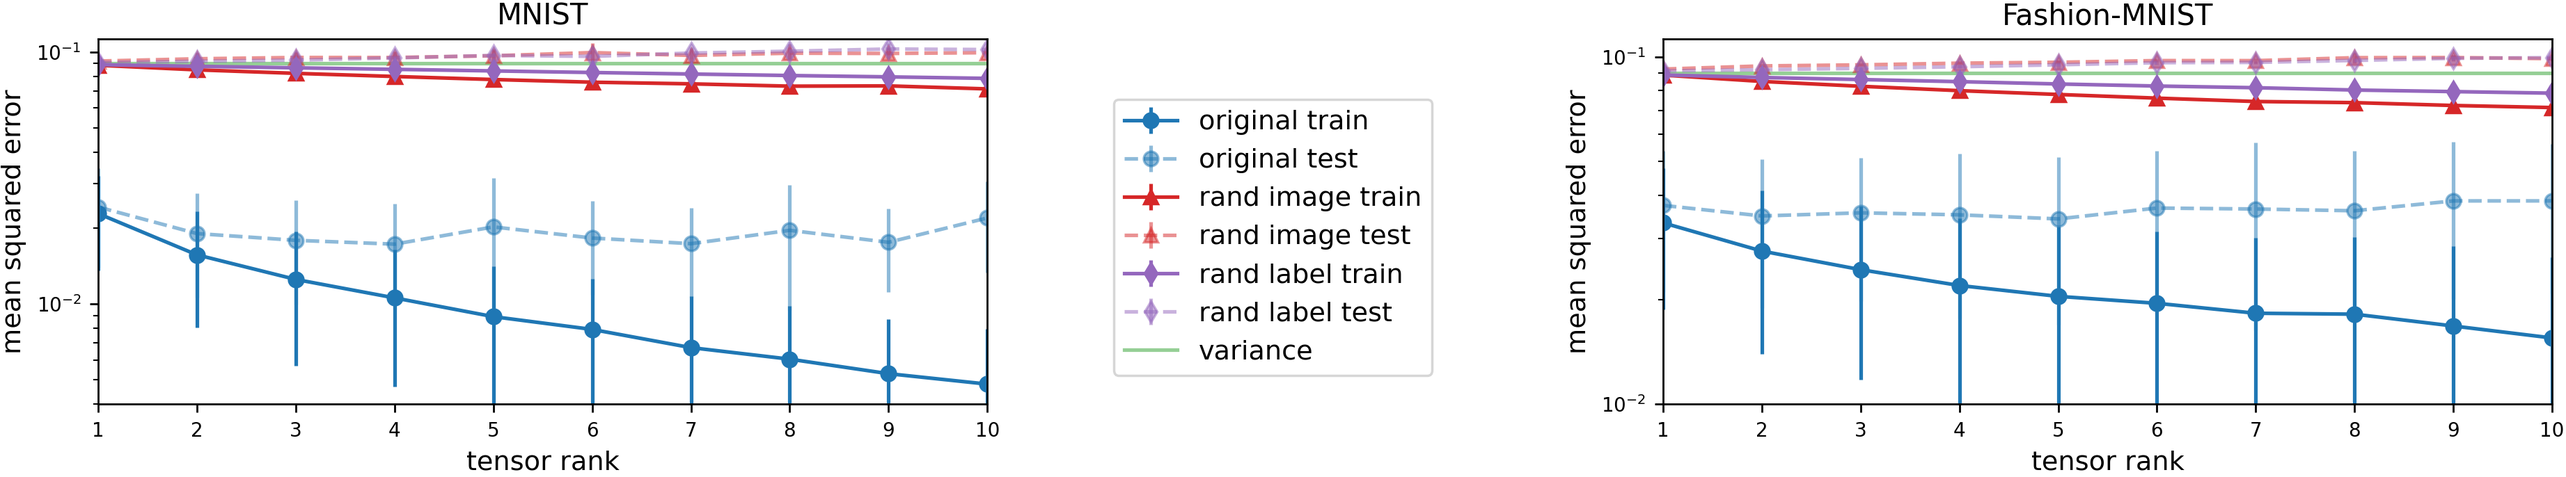
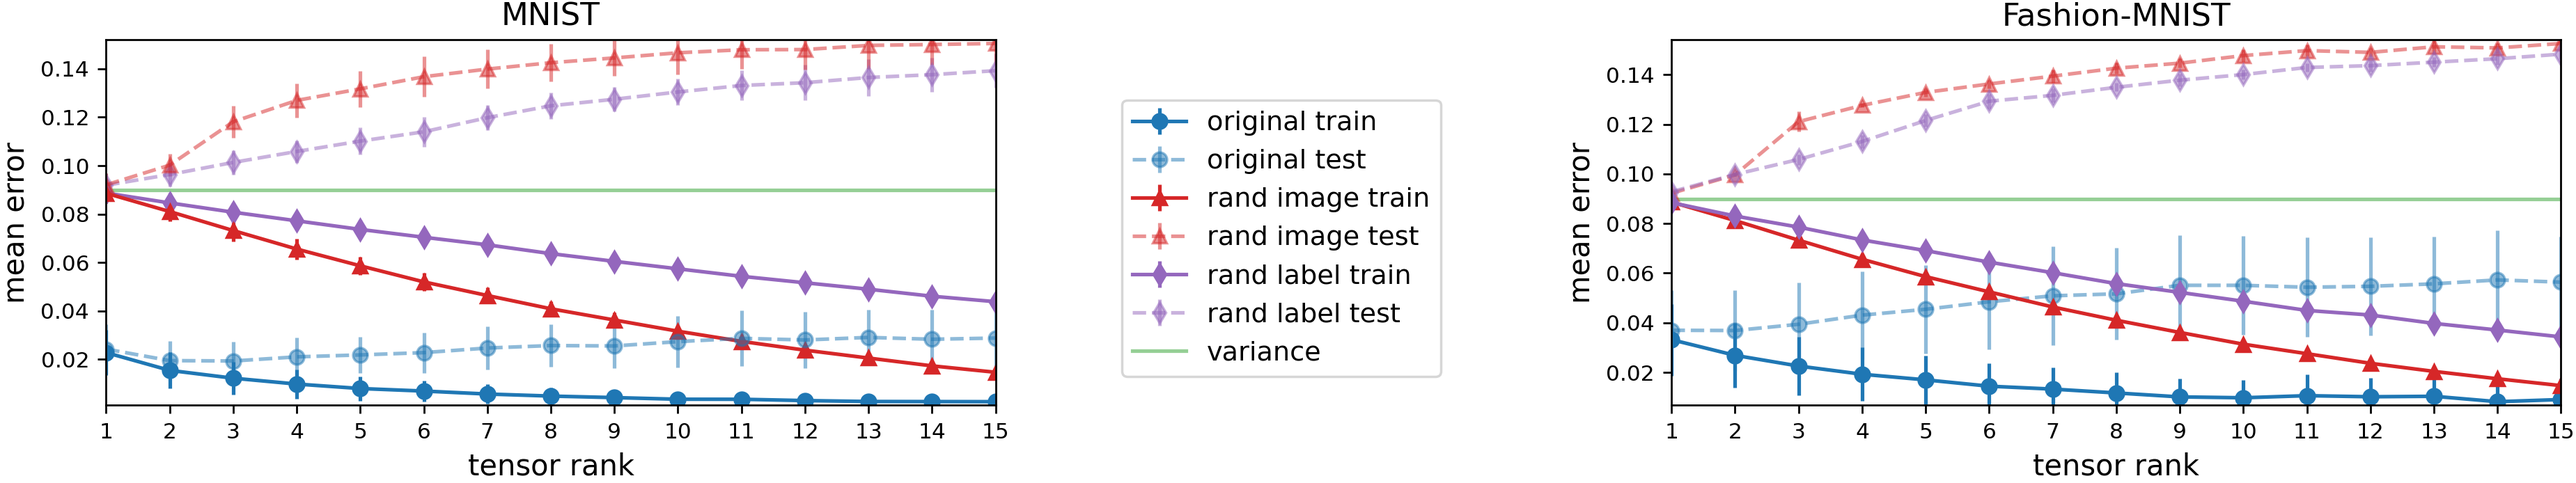
Minor updates (v2 of paper)

diff --git a/large_scale_experiments_plotter.py b/large_scale_experiments_plotter.py
@@ -19,9 +19,9 @@ NATURAL_PLOT_MARKER = 'o'
 
 VARIANCE_PLOT_COLOR = 'tab:green'
 
-TITLE_SIZE = 12
+TITLE_SIZE = 13
 
-LABELS_SIZE = 11
+LABELS_SIZE = 12
 
 TICKS_SIZE = 9
 
@@ -65,7 +65,7 @@ def fetch_data(root_directory_path):
         checkpoint = torch.load(checkpoint_path)
         rank = checkpoint['model']['factors'].shape[2]
         train_loss = checkpoint['train_evaluator']['mse_loss']['current_value']
-        test_loss = checkpoint['val_evaluator']['val_mse_loss']['current_value']
+        test_loss = checkpoint['val_evaluator']['val_loss']['current_value']
 
         dataset_type = 'other_type'
         for type_option in ['natural', 'rnd_lbl', 'rnd_data']:
@@ -73,7 +73,6 @@ def fetch_data(root_directory_path):
                 dataset_type = type_option
                 break
 
-        dataset_name = 'other_dataset_name'
         for dataset_name_option in ['fmnist', 'mnist']:
             if dataset_name_option in checkpoint_path:
                 dataset_name = dataset_name_option
@@ -86,6 +85,7 @@ def fetch_data(root_directory_path):
         for dataset_type, by_dataset_type_data_dict in by_dataset_name_data_dict.items():
             for rank, list_of_results in by_dataset_type_data_dict.items():
                 rescale = np.array(list_of_results) / SCALE_FACTOR
+                rescale = np.sort(rescale)
                 all_data[dataset_name][dataset_type][rank] = (rescale.mean(), rescale.std())
 
     return all_data
@@ -93,6 +93,7 @@ def fetch_data(root_directory_path):
 
 def populate_axes(ax, dataset_name, data):
     styles, plot_labels, plot_titles = get_plot_style_dict()
+    x_max, x_min, y_max, y_min = init_limit_values(data)
 
     for i, (raw_label, series) in enumerate(data.items()):
         dataset_type = raw_label[0]
@@ -101,18 +102,45 @@ def populate_axes(ax, dataset_name, data):
         x, y_values = zip(*(sorted(series.items())))
         y, yerr = zip(*y_values)
 
+        x_max, x_min, y_max, y_min = update_limits_values(x, x_max, x_min, y, y_max, y_min)
+
         processed_label = plot_labels[dataset_type] + ' ' + train_or_test
         ax.errorbar(x, y, yerr=yerr, label=processed_label, **styles[dataset_type], **styles[train_or_test])
 
-    ax.plot([1, 10], [0.09, 0.09], label='variance', color=VARIANCE_PLOT_COLOR, alpha=0.5)
+    ax.plot([x_min, x_max], [0.09, 0.09], label='variance', color=VARIANCE_PLOT_COLOR, alpha=0.5)
+    y_max = max(y_max, 0.09)
     ax.set_xticks(x)
     ax.tick_params(axis='x', labelsize=TICKS_SIZE)
     ax.tick_params(axis='y', labelsize=TICKS_SIZE)
     ax.set_title(plot_titles[dataset_name], fontsize=TITLE_SIZE)
-    ax.set_xlim((1, 10))
+    set_plot_limits(ax, x_max, x_min, y_max, y_min)
     ax.set_xlabel('tensor rank', fontsize=LABELS_SIZE)
-    ax.set_ylabel('mean squared error', fontsize=LABELS_SIZE)
-    ax.set_yscale('log')
+    ax.set_ylabel('mean error', fontsize=LABELS_SIZE)
+
+
+def set_plot_limits(ax, x_max, x_min, y_max, y_min):
+    ax.set_xlim((x_min, x_max))
+    y_gap = y_max - y_min
+    y_pad = y_gap * 0.01
+    ax.set_ylim((y_min - y_pad, y_max + y_pad))
+
+
+def init_limit_values(data):
+    x_min, x_max = list(list(data.values())[0].items())[0][0], list(list(data.values())[0].items())[0][0]
+    y_min, y_max = list(list(data.values())[0].items())[0][1][0], list(list(data.values())[0].items())[0][1][0]
+    return x_max, x_min, y_max, y_min
+
+
+def update_limits_values(x, x_max, x_min, y, y_max, y_min):
+    if max(x) > x_max:
+        x_max = max(x)
+    if min(x) < x_min:
+        x_min = min(x)
+    if max(y) > y_max:
+        y_max = max(y)
+    if min(y) < y_min:
+        y_min = min(y)
+    return x_max, x_min, y_max, y_min
 
 
 def create_plot(args):
@@ -141,6 +169,7 @@ def create_plot(args):
     if args.save_plot_to != '':
         if not os.path.exists(os.path.dirname(args.save_plot_to)):
             os.mkdir(os.path.dirname(args.save_plot_to))
+            
         plt.savefig(args.save_plot_to + now_utc_str, dpi=250, bbox_inches='tight', pad_inches=0.01)
 
     plt.show()
@@ -151,10 +180,7 @@ def main():
     p.add_argument("--experiments_dir", type=str, required=True, help="Paths to a directory with experiments.")
     p.add_argument("--save_plot_to", type=str, default="",
                    help="Save plot to the given file path (doesn't save if none given).")
-    p.add_argument("--plot_title", type=str, default="", help="Title for the plot.")
-    p.add_argument("--plot_scale", type=float, default=1.5, help="Determine the scale of the 4x3 plot.")
-    p.add_argument("--trivial_loss_value", type=float, default=-1,
-                   help="Insert trivial loss value to plot horizontal line in its place. (when left blank - no line will be plotted)")
+
     args = p.parse_args()
 
     create_plot(args)

diff --git a/tensor_factorization/experiments/large_scale_tensor_completion_experiment.py b/tensor_factorization/experiments/large_scale_tensor_completion_experiment.py
@@ -23,7 +23,6 @@ from common.train.trainers import SupervisedTrainer
 from tensor_factorization.datasets.large_scale_tensor_completion_datamodule import LargeScaleTensorCompletionDataModule
 from tensor_factorization.evaluation.large_scale_cp_factorization_evaluator import LargeScaleCPFactorizationEvaluator
 from tensor_factorization.models.tensor_factorizations import LargeScaleTensorCPFactorization
-from tensor_factorization.trainers.weight_clamp_callback import WeightClampCallback
 
 
 class LargeScaleTensorCompletionExperiment(ExperimentBase):
@@ -41,11 +40,12 @@ class LargeScaleTensorCompletionExperiment(ExperimentBase):
         parser.add_argument("--optimizer", type=str, default="grouprmsprop", help="Optimizer to use. Supports: 'grouprmsprop', 'adam', 'sgd'")
         parser.add_argument("--momentum", type=float, default=0, help="Momentum for SGD")
         parser.add_argument("--stop_on_zero_loss_tol", type=float, default=1e-8, help="Stops when train loss reaches below this threshold")
+        parser.add_argument("--max_test_sample_loss", type=float, default=4, help="Max per sample test error loss. If negative (default) will not "
+                                                                                   "clip loss.")
 
         parser.add_argument("--num_cp_components", type=int, default=1, help="Number of components to use in the cp factorization")
         parser.add_argument("--init_mean", type=float, default=1, help="Init mean for gaussian init")
         parser.add_argument("--init_std", type=float, default=1e-3, help="Init std for gaussian init")
-        parser.add_argument("--max_weights_value", type=float, default=-1, help="Weights magnitude constraint. (set -1 for no constraint)")
         parser.add_argument("--track_factor_norms", action="store_true",
                             help="Track cp factorization factors, components and factor column norms. Currently only supported for CP factorizaion")
 
@@ -73,7 +73,7 @@ class LargeScaleTensorCompletionExperiment(ExperimentBase):
                                  self.__get_train_loss_metric_info(config)]
         train_evaluator = SupervisedTrainEvaluator(train_metric_info_seq)
 
-        val_metric_info_seq = [metrics.MetricInfo("val_mse_loss", metrics.MSELoss(), tag="mse")]
+        val_metric_info_seq = [metrics.MetricInfo("val_loss", metrics.ClampedMSELoss(config["max_test_sample_loss"]))]
         val_dataloader = datamodule.val_dataloader()
 
         val_evaluators = [SupervisedValidationEvaluator(model, val_dataloader, val_metric_info_seq, device=device)]
@@ -125,9 +125,6 @@ class LargeScaleTensorCompletionExperiment(ExperimentBase):
                                                                                   tol=config["stop_on_zero_loss_tol"],
                                                                                   validate_every=config["validate_every"])
         callbacks_dict["terminate_on_nan"] = callbacks.TerminateOnNaN(verify_batches=False)
-
-        if config["max_weights_value"] > 0:
-            callbacks_dict["weight_clamp"] = WeightClampCallback(model, max_weights_value=config["max_weights_value"])
 
     def create_trainer(self, model: LargeScaleTensorCPFactorization, datamodule: DataModule, train_evaluator: TrainEvaluator,
                        val_evaluator: Evaluator, callback: Callback, device, config: dict, state: dict, logger: logging.Logger) -> Trainer:

diff --git a/common/evaluation/metrics/regression.py b/common/evaluation/metrics/regression.py
@@ -134,3 +134,17 @@ def compute_reconstruction_error(tensor: torch.Tensor, target_tensor: torch.Tens
             reconstruction_error /= target_norm
 
     return reconstruction_error
+
+
+class ClampedMSELoss(AveragedMetric):
+
+    def __init__(self, max_test_sample_loss: float):
+        super().__init__()
+        self.max_test_sample_loss = max_test_sample_loss
+
+    def _calc_metric(self, y_pred, y):
+        mse_loss = (y_pred - y) ** 2
+        if self.max_test_sample_loss > 0:
+            mse_loss = torch.clamp(mse_loss, max=self.max_test_sample_loss)
+
+        return mse_loss.mean().item(), len(y)

diff --git a/README.md b/README.md
@@ -49,6 +49,7 @@ python tensor_sensing_experiment_runner.py \
 
 - Use the ```-h``` flag for information on the customizable run arguments.
   
+  
 
 
 ### 1.3 Plotting Results
@@ -119,7 +120,7 @@ python large_scale_tensor_completion_experiment_runner.py \
 --optimizer adam \
 --init_mean 1 \
 --init_std 0.001 \
---max_weights_value 1.02
+--max_test_sample_loss 4
 ```
 
 - The ```dataset_path``` run argument should point to the dataset file generated in previous step.
@@ -127,6 +128,7 @@ python large_scale_tensor_completion_experiment_runner.py \
 - A folder with checkpoints, metric plots, and a log file will be automatically created under the directory specified by the ```outputs_dir``` run argument.
 
 - Use the ```-h``` flag for information on the customizable run arguments.
+  
   
 
 
